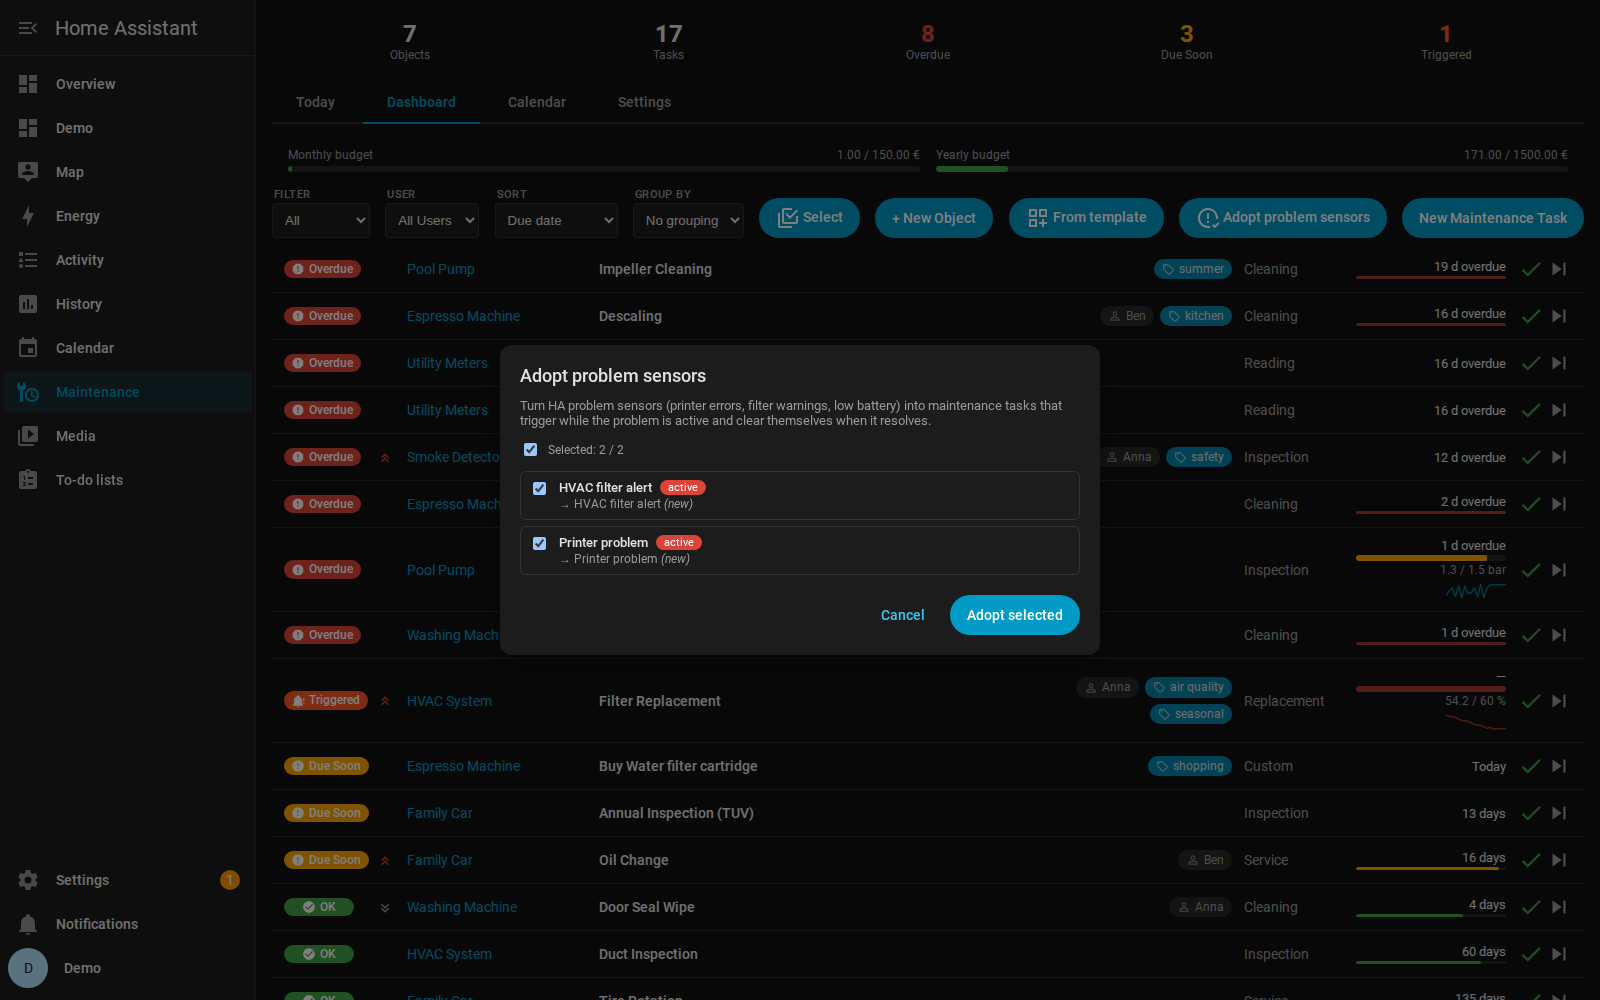
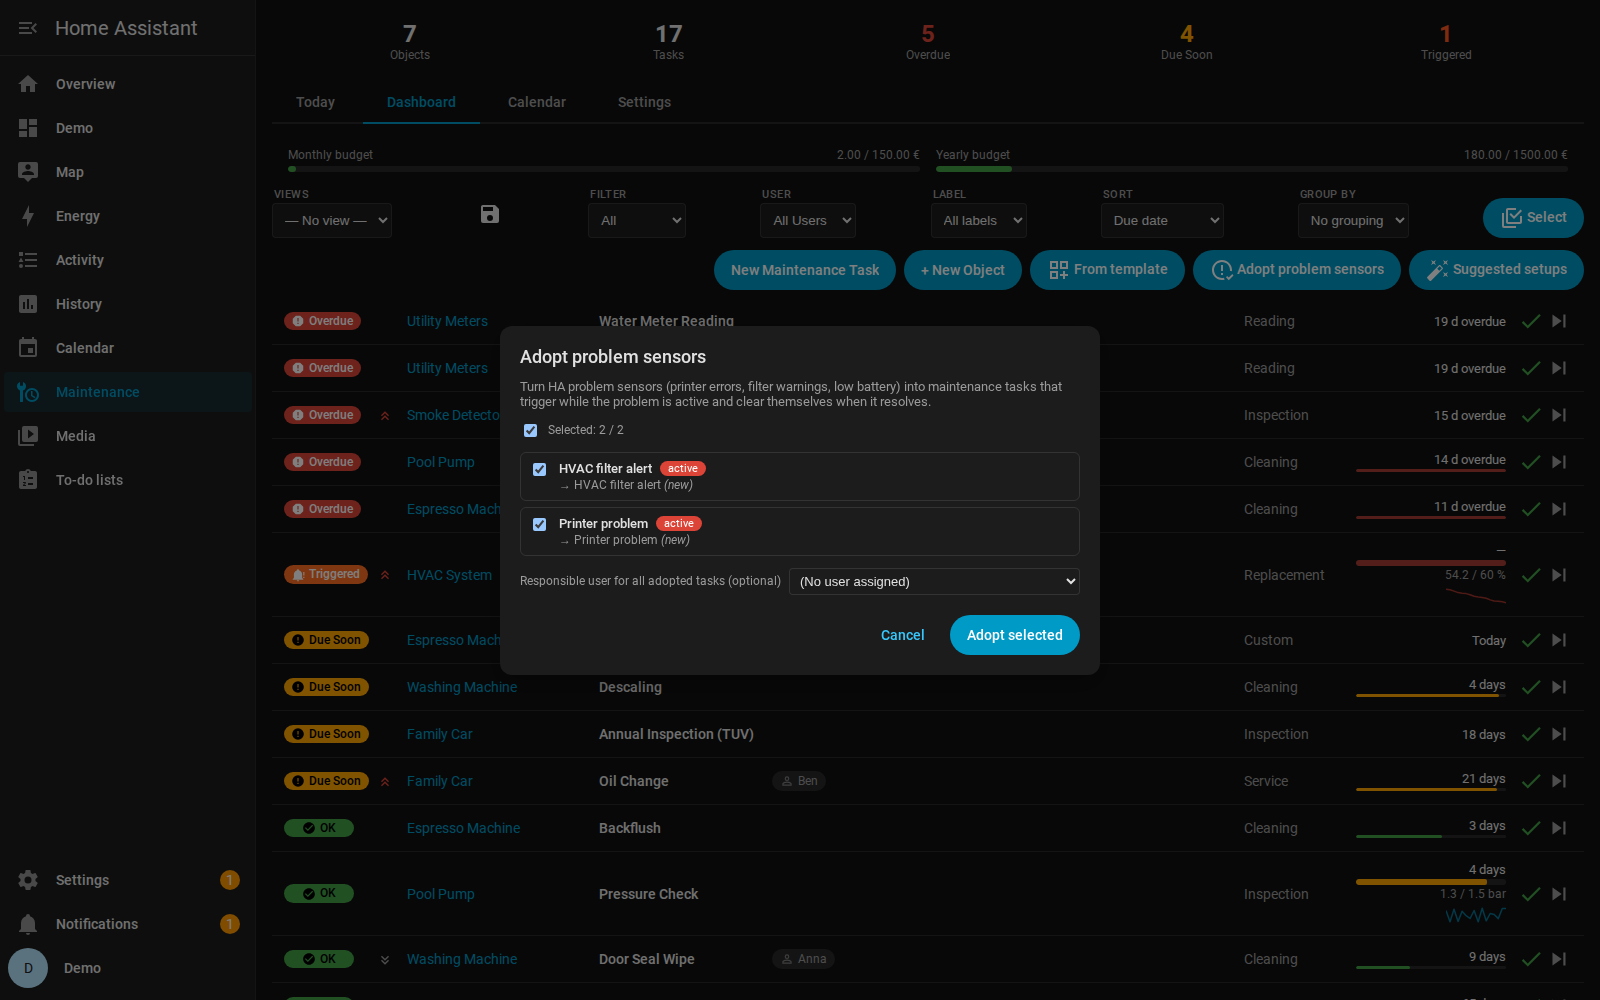
docs: regenerate all screenshots from a fresh faketime demo + refresh the prose around them
All 28 existing documentation screenshots regenerated (English, dark
mode) from a from-scratch ha-shots instance running the faketime image
pinned to 2026-07-19 noon — dates and "N d overdue" values in the
imagery are now deterministic and reproducible. The set shows the
current UI: the narrow-viewport disclosure (new mobile-dashboard.png
joins the set), the tidied desktop task rows, and the adopt dialog's
responsible-user picker.

Docs wired to the imagery: FEATURES.md gains a Mobile section
(collapsed Filter / + Add design), the adopt-problem screenshot moves
into its own section with a link to the INTEGRATIONS.md adoptable-
sensors table, and the Suggested-Setups prose drops its hand-maintained
(v2.28-era, stale) integration list in favor of the generated
INTEGRATIONS.md — plus current counts (100 integrations / 190
signatures). README counts corrected (41 templates; catalog figures).

Tooling learnings baked into the scripts: REST via 127.0.0.1 (localhost
relay clogs), and the adopt/docs/remainder scripts now log in through
the real login form — hassTokens injection began bouncing to
/auth/authorize mid-session while WS auth for the same token stayed
valid (browser-side probe confirmed auth_ok).

Claude-Session: https://claude.ai/code/session_013kuCGZTtYQDiBSomLhUfq2

diff --git a/docs/FEATURES.md b/docs/FEATURES.md
@@ -130,6 +130,13 @@ notes, responsible user, priority, labels and part link per sensor, and the
 next adoption of the same sensor restores them (part links are re-validated
 against the target object's parts).
 
+![Adopt problem sensors](images/adopt-problem-sensors.png)
+
+[INTEGRATIONS.md](INTEGRATIONS.md#beyond-this-list-problem-sensor-adoption)
+lists, per integration, the problem sensors known to be adoptable — from
+Synology disk health over hOn dishwasher salt/rinse-aid to the vehicle
+warning-lamp families.
+
 ### Suggested Setups (2.28+, Beta)
 > **Beta**: integration discovery is new and the signature catalog grows
 > release by release. Every entry is verified against the integration's source
@@ -138,22 +145,14 @@ against the target object's parts).
 > issue or discussion with the integration name and entity ids.
 
 The **Suggested setups** button discovers devices of supported integrations
-whose consumable sensors can drive maintenance tasks — Roborock, Xiaomi Miio,
-Dreame and Ecovacs vacuums (brushes, filter, dust bag, mop pads; Ecovacs GOAT
-mowers too), **Xiaomi MIoT / Xiaomi Home** air purifiers/humidifiers/vacuums
-(filter & brush life), **Midea (LAN)** water-purifier and appliance filters,
-**Miele** dishwashers and washers (salt, rinse aid, PowerDisk/TwinDos
-detergent fill levels), IPP and Brother printers (ink/toner, drum, belt,
-fuser),
-**Husqvarna Automower, Worx Landroid, Gardena Sileno and Segway Navimow
-mowers** (blade-usage/mowing-hours counters — for Navimow the engine
-accumulates the mowing time itself), **LG
-ThinQ** appliances (AC/purifier/refrigerator filters and the washer tub-clean
-counter), **Viessmann ViCare** ventilation filters and service hours, **Bambu Lab**
-printers (usage-hour service intervals), **Hyundai/Kia, Tesla and Renault**
-cars (service every 15,000 km by odometer) and **Home Connect**
-(Bosch/Siemens) appliances (dishwasher salt/rinse-aid, coffee descale/clean,
-hood grease filter) — and sets them up in one click: the object is bound to the
+whose consumable sensors can drive maintenance tasks and sets them up in one
+click. The catalog currently covers **100 integrations with 190 verified
+signatures** — vacuums, mowers, kitchen appliances, printers, cars (including
+Škoda/Audi service countdowns straight from the vehicle), air purifiers,
+heating and water treatment, locks, pet tech and more; the complete,
+always-current list with every duty and default lives in
+**[INTEGRATIONS.md](INTEGRATIONS.md)** (generated from the catalog itself, so
+it cannot drift). The object is bound to the
 device and every task arrives with its trigger **pre-wired** — a **threshold**
 (below 24 h left / below 10 % remaining / above a usage-hours count, unit-aware)
 for numeric consumables, a **state latch** on the event for Home Connect's
@@ -164,8 +163,6 @@ its event resolves the task automatically. Every signature in
 the catalog is **verified against the integration's source code** (a tripwire
 enforces the source reference and full localization), and discovery never
 proposes entities already wired to a task.
-
-![Adopt problem sensors](images/adopt-problem-sensors.png)
 
 ### Saved filter views
 Name a combination of the panel task-list filters — status, responsible user,
@@ -229,8 +226,19 @@ native HA UI.
 
 ![Configuration](images/config-flow.png)
 
-### Mobile Task Detail
-![Mobile Task Detail](images/mobile-task.png)
+### Mobile
+On phones and portrait tablets the dashboard keeps the task list above the
+fold: the six filter controls and the five create/setup actions collapse
+behind two compact toggles — **Filter** (showing how many filters are
+actively narrowing the list) and **+ Add** (a menu with *New task*, *New
+object*, *From template*, *Suggested setups* and *Adopt problem sensors*).
+The KPI chips at the top remain the one-tap filter path, and the budget
+bars compact to a single line. Desktop and landscape layouts render all
+controls inline.
+
+| Dashboard (collapsed controls) | Task detail |
+|:-:|:-:|
+| ![Mobile dashboard](images/mobile-dashboard.png) | ![Mobile Task Detail](images/mobile-task.png) |
 
 ### On-Complete Action (1.3.0+)
 Run any HA service when the task is completed — here *turn the pool pump back

diff --git a/README.md b/README.md
@@ -27,14 +27,14 @@ your phone, and keep the full history of what was done and what it cost.
 ## What can it do for you?
 
 **"The HVAC filter is due every 3 months."**
-Create the object once (or pick it from 33 ready-made templates), give it a
+Create the object once (or pick it from 41 ready-made templates), give it a
 task with an interval — days, weeks, months, or specific patterns like *first
 Saturday* or *last business day of the month*. You get a reminder before it's
 due, and completing it takes one tap — optionally with notes, cost, duration,
 and a photo of the work.
 
 **"My vacuum already knows when its filter is worn."**
-**Suggested setups** (Beta) discovers devices of 27 supported integrations —
+**Suggested setups** (Beta) discovers devices of 100 supported integrations —
 vacuums, robotic mowers, printers, kitchen appliances, heating, 3D printers,
 cars — and sets them up in one click with **sensor triggers pre-wired**:
 percent remaining, countdowns, wear counters, usage intervals (service every
@@ -106,7 +106,7 @@ for you — always previewing before it writes.
 
 | Area | What you get | Details |
 |---|---|---|
-| **Suggested setups** | 83 integrations discovered with pre-wired sensor triggers — boilers, vacuums, cars, locks, printers, purifiers and more | [Supported integrations](docs/INTEGRATIONS.md) |
+| **Suggested setups** | 100 integrations / 190 verified signatures with pre-wired sensor triggers — boilers, vacuums, cars, locks, printers, purifiers and more | [Supported integrations](docs/INTEGRATIONS.md) |
 | **Scheduling** | Intervals (days→years), calendar patterns (weekdays, nth weekday, day of month, last/business day ±offset), one-time, manual; seasonal month windows, finite series (ends after N times / on a date), postpone a single occurrence; drift-free planned anchoring; time-of-day precision; live "next three dates" preview while editing | [Features → Task Management](docs/FEATURES.md#task-management) |
 | **Sensor triggers** | Threshold, counter, runtime, state-change, compound (AND/OR), multi-entity; auto-complete on sensor recovery; adopt HA `device_class: problem` sensors as tasks | [Features → Triggers](docs/FEATURES.md#sensor-based-triggers) |
 | **Adaptive scheduling** | Learns real intervals (EWA + Weibull), seasonal factors, degradation prediction, feedback loop | [Features → Adaptive](docs/FEATURES.md#adaptive-scheduling) |

diff --git a/CHANGELOG.md b/CHANGELOG.md
@@ -16,6 +16,16 @@ All notable changes to Maintenance Supporter are documented in this file.
   ~33 % and five to six tasks are immediately visible. Desktop and
   landscape layouts are unchanged.
 
+### 📸 Documentation refresh
+
+- All 29 documentation screenshots regenerated from a fresh, faketime-pinned
+  demo instance (English, dark mode) — they now show the current UI including
+  the mobile disclosure design, the tidied desktop rows and the adopt dialog's
+  responsible-user picker. FEATURES.md gained a Mobile section; the
+  Suggested-Setups prose now defers to the generated INTEGRATIONS.md instead
+  of a hand-maintained (and stale) integration list; README counts corrected
+  (41 templates, 100 integrations / 190 signatures).
+
 ### 🖥 Desktop: tidier task rows
 
 - On wide screens the task-name column now sizes to its content and the
